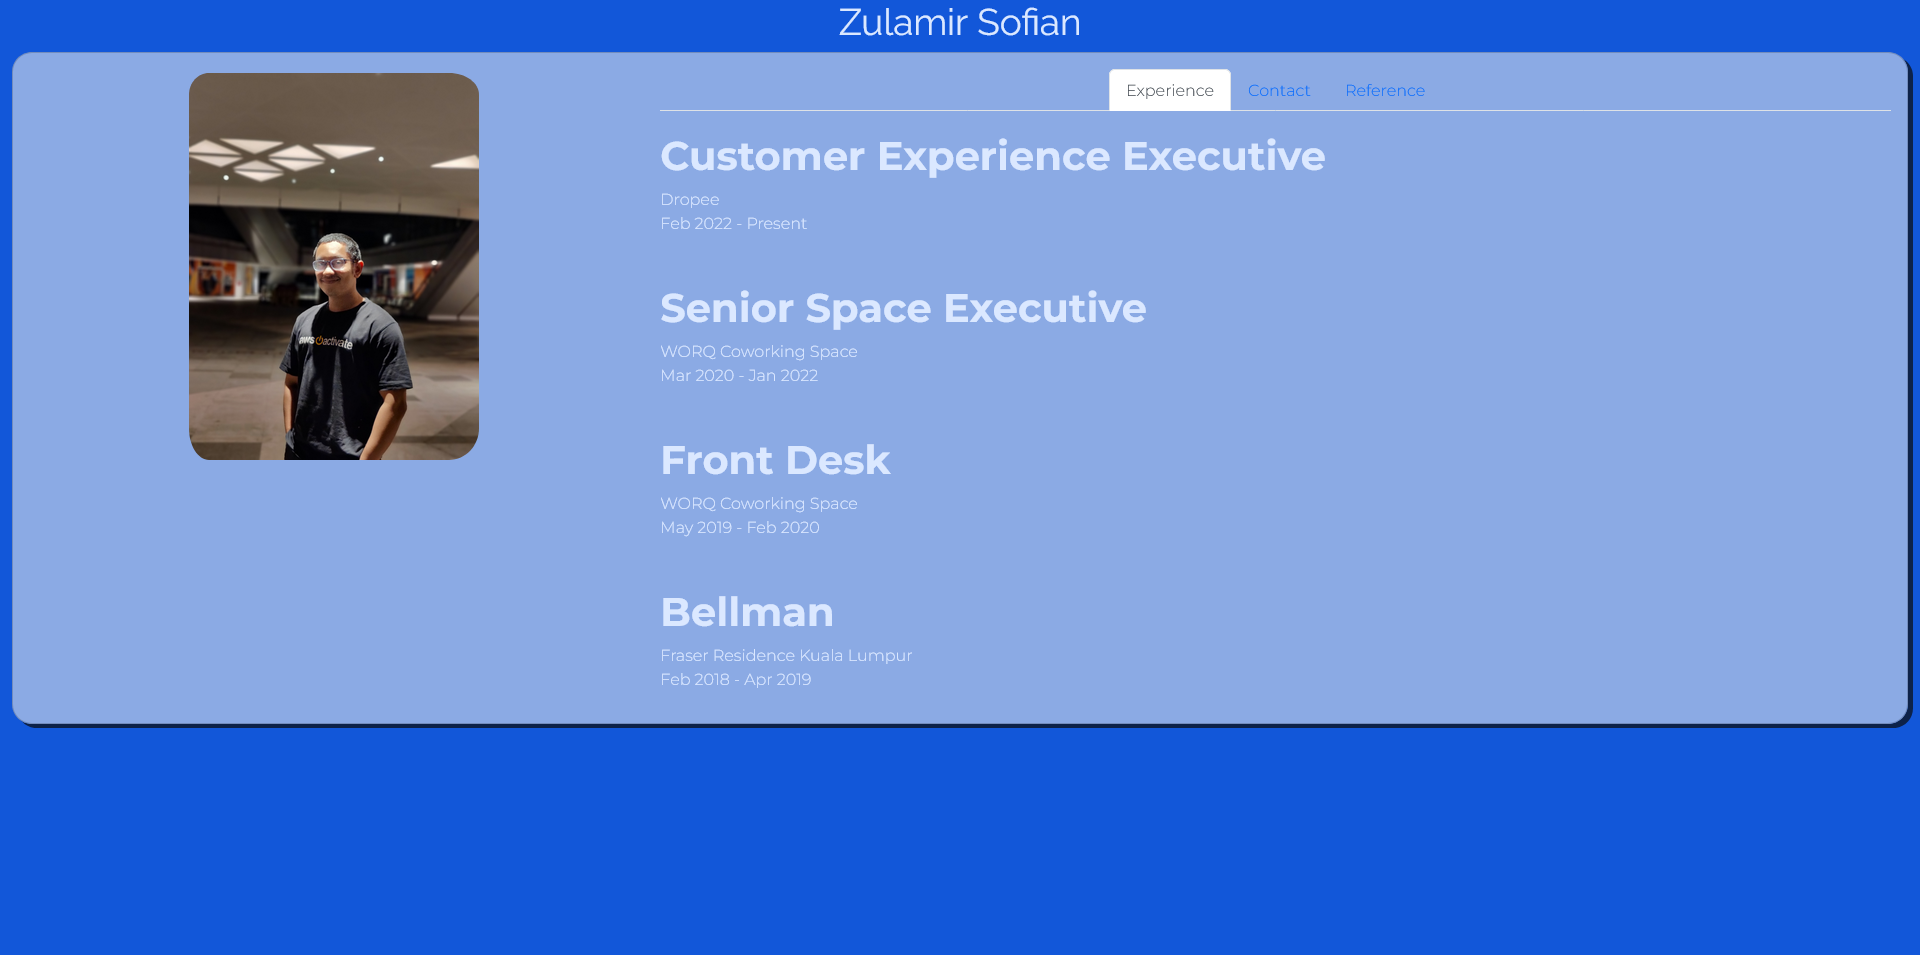
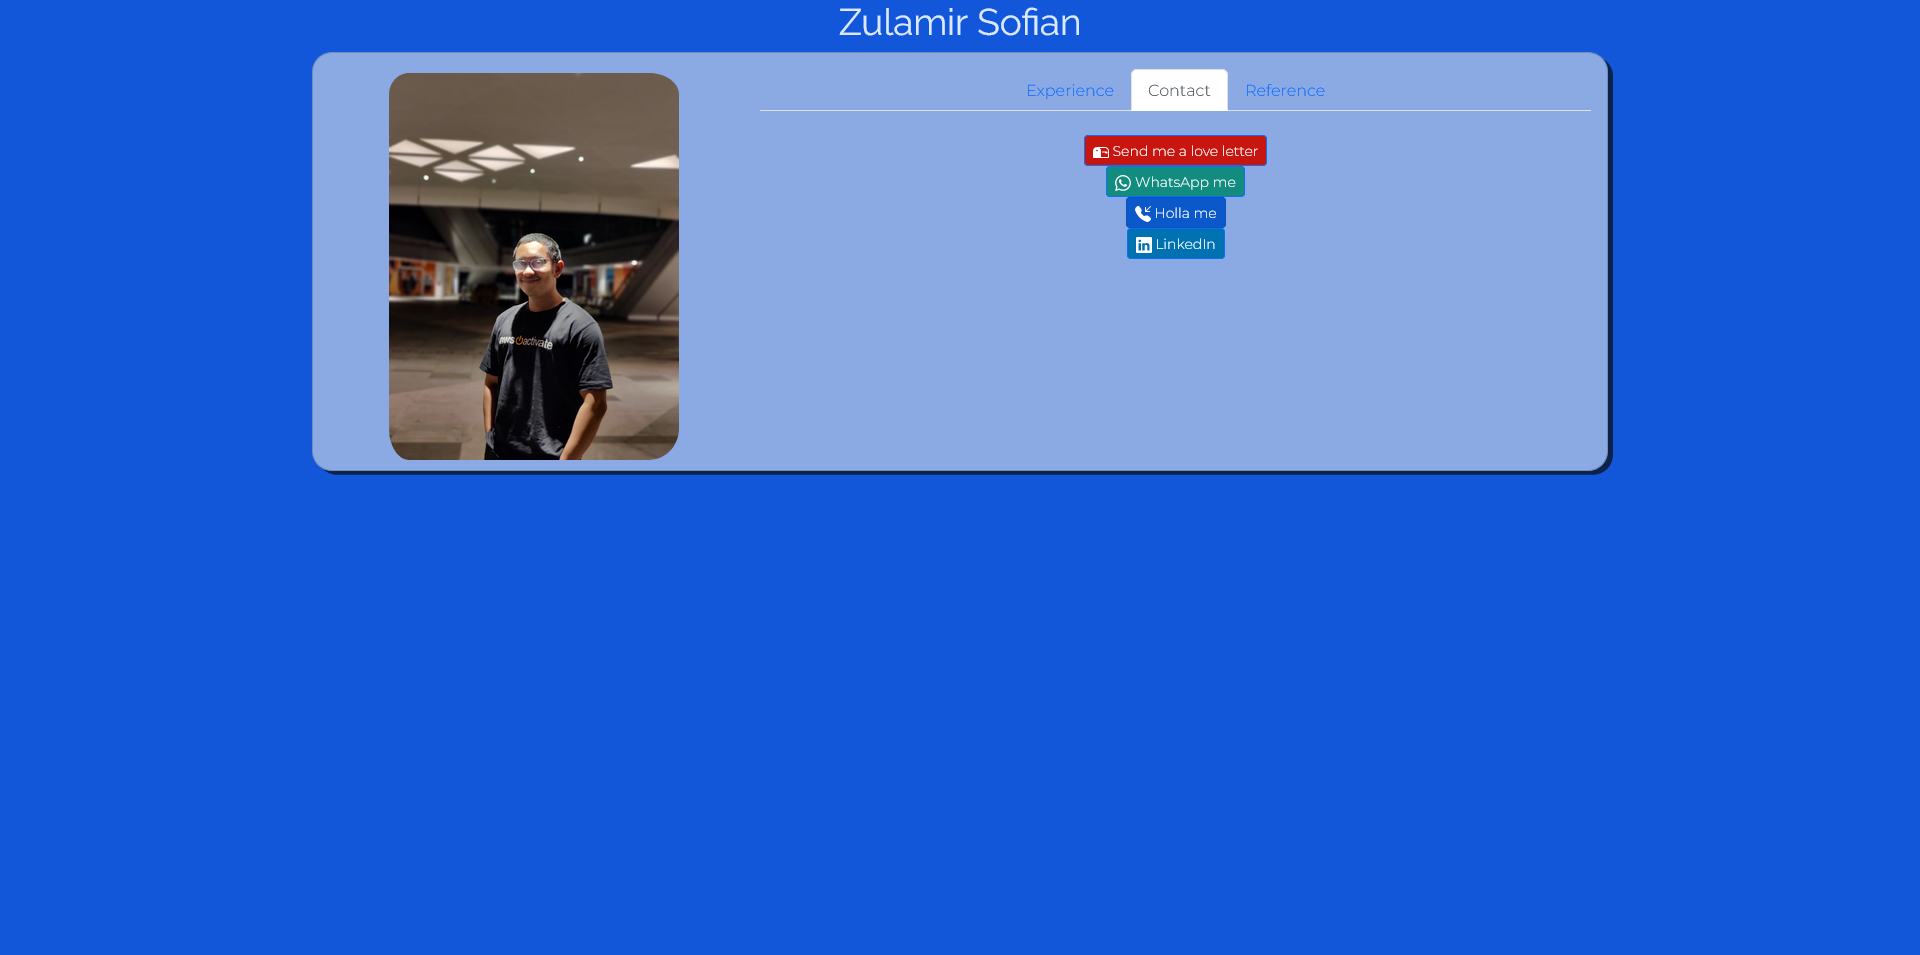
update screenshot
Updated screenshot and replaced container-fluid with container

diff --git a/index.html b/index.html
@@ -13,7 +13,7 @@
 
 <body>
   <main>
-      <div class="container-fluid text-center">
+      <div class="container text-center">
         <h1 class="display-1">Zulamir Sofian</h1>
         <!-- <h1 class="text-center">Heading 1</h1> -->
         <div class="card mb-3">
